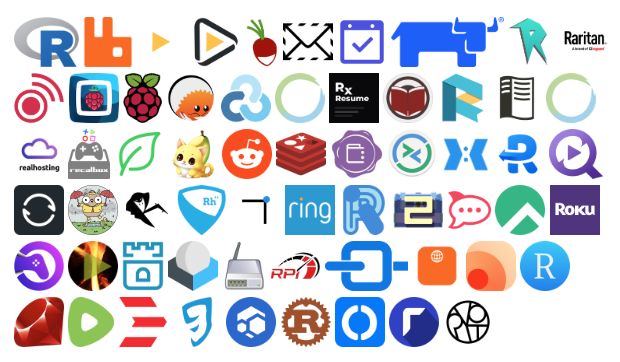
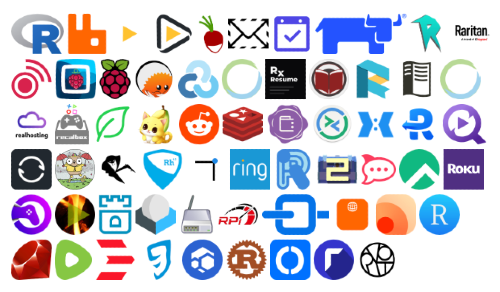
Reduce size of example images

diff --git a/README.md b/README.md
@@ -20,7 +20,7 @@ Includes **3578 icons** and growing.
 
 [Icon Directory](_static/directory-a.md) lists icon names with each image filetype - for **faster searching**.
 
-[<img src="_static/example-directory.png" alt="Example Directory" width="300px">](_static/directory-a.md)
+[<img src="_static/example-directory.png" alt="Example Directory">](_static/directory-a.md)
 
 
 ## 🚀 After updating icons
